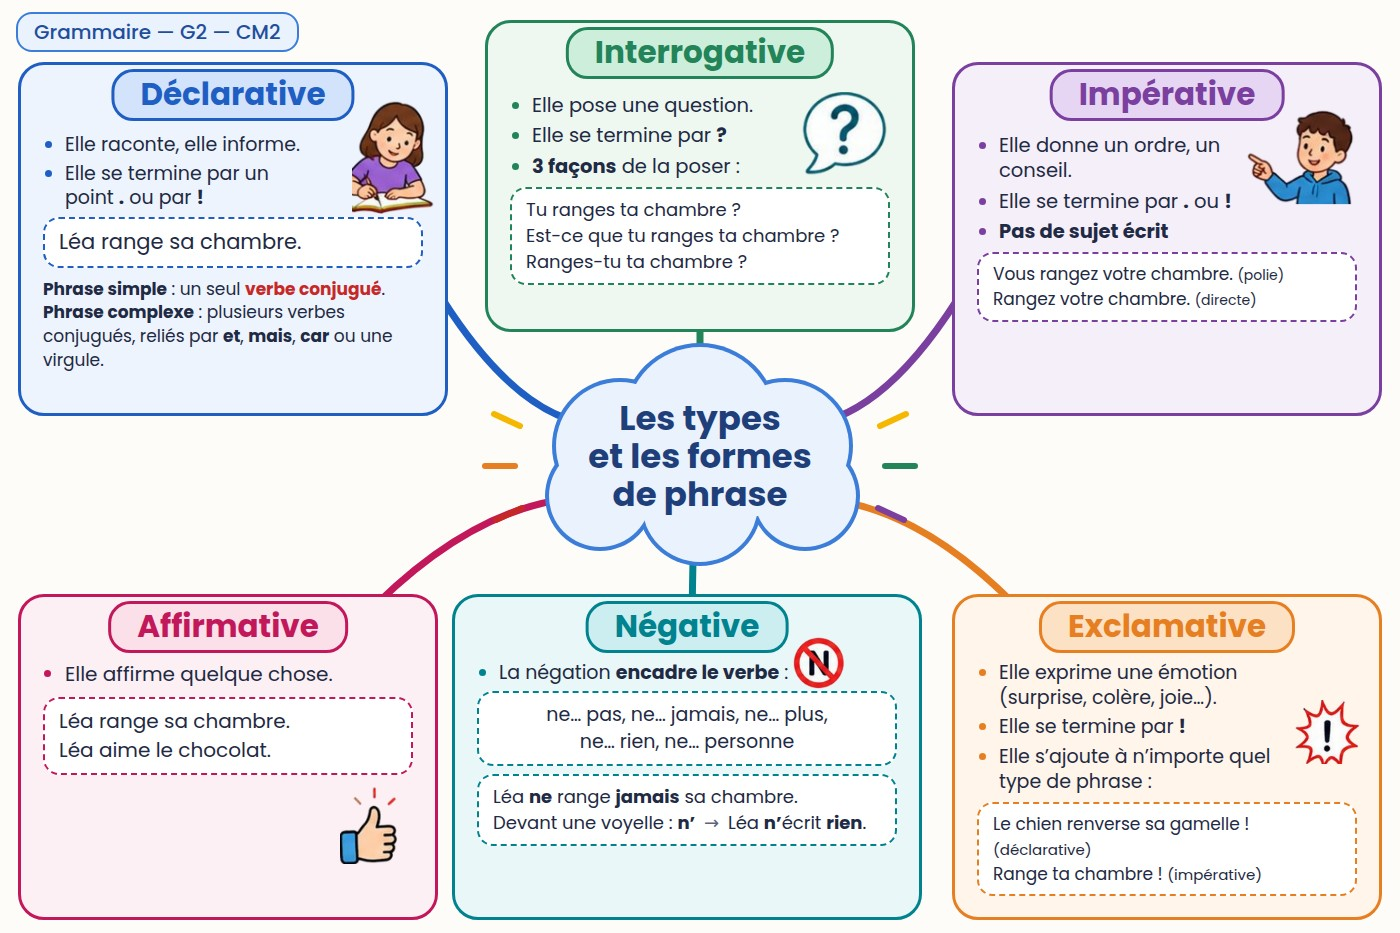
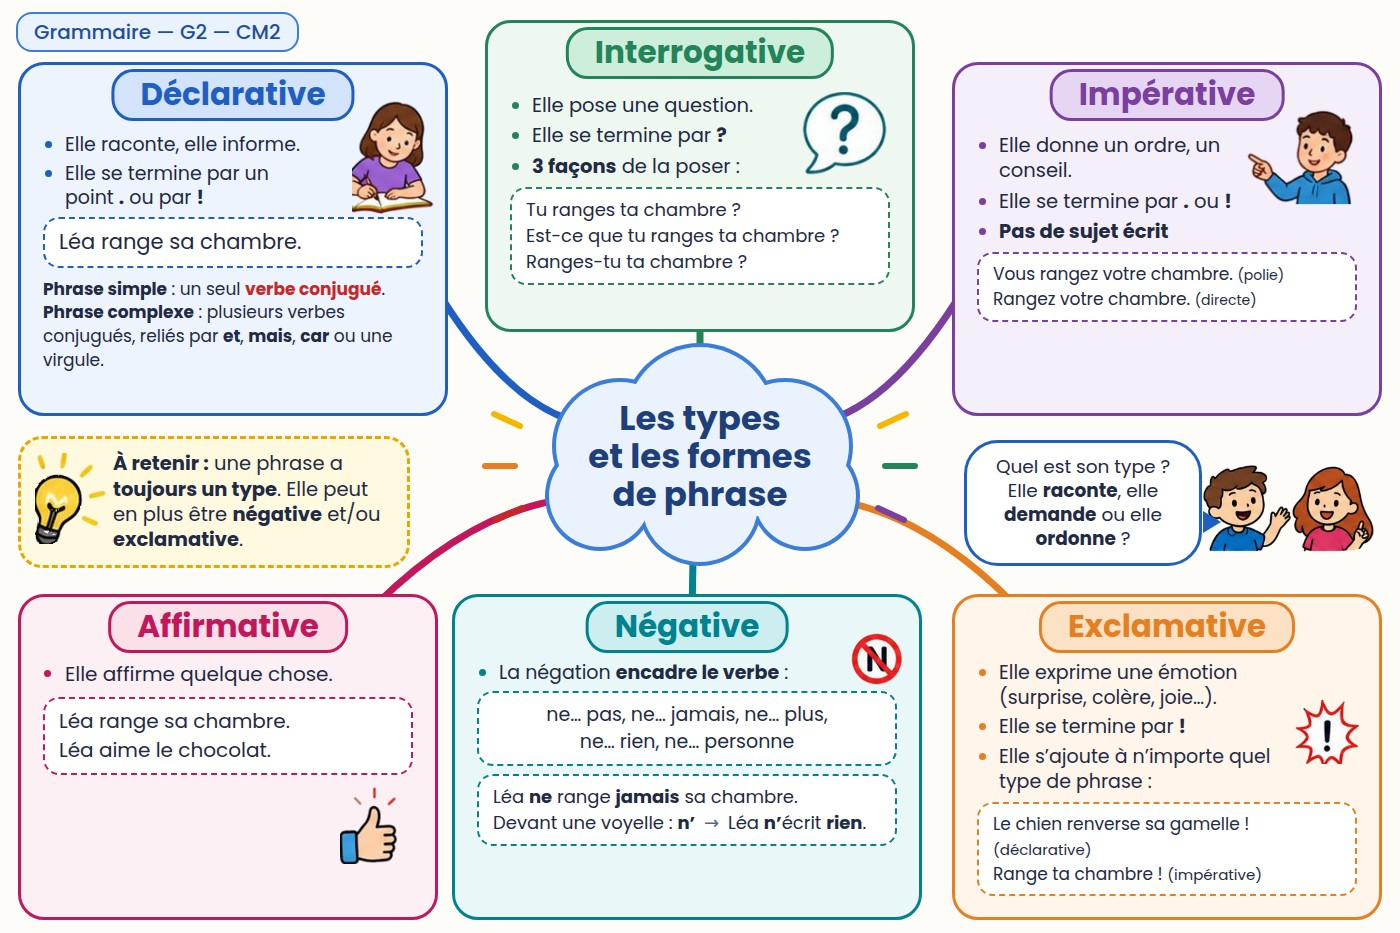
G2 : éléments de G1 repris (note « À retenir » avec ampoule, duo d'enfants qui parle dans une bulle) pour remplir les vides

Changed region(s): [[0.0, 0.4662, 0.3071, 0.6217], [0.6757, 0.4662, 0.9829, 0.6217], [0.5529, 0.6838, 0.645, 0.746]]

diff --git a/outils/lecons/g2_cartes.py b/outils/lecons/g2_cartes.py
@@ -47,12 +47,19 @@ def carte(lid, chip, niveau):
      dict(id='inter', col='vert', geom=TC, ext=24, title=inter_t, hstyle='top:30px', html=inter, figs=[('q', 800, 92, 90)]),
      dict(id='imp', col='violet', geom=TR, ext=24, title='Impérative', hstyle='top:30px', figs=[('boy', 1244, 106, 112)], html=imp),
      dict(id='aff', ext=24, col='rose', geom=AFF, title='Affirmative', hstyle='top:30px', html=aff, figs=[('thumb', 340, 785, 62)], style='padding-top:50px'),
-     dict(id='neg', ext=24, col='turquoise', geom=NEG, title='Négative', hstyle='top:30px', html=neg, figs=[('no', 792, 636, 54)], style='padding-top:50px'),
+     dict(id='neg', ext=24, col='turquoise', geom=NEG, title='Négative', hstyle='top:30px', html=neg, figs=[('no', 850, 632, 54)], style='padding-top:50px'),
      dict(id='excl', ext=24, col='orange', geom=EXC, title='Exclamative', hstyle='top:30px', html=exc, figs=[('burst', 1290, 700, 74)], style='padding-top:50px'),
     ]
     legend = ''
     titre = 'Les types<br>et les formes<br>de phrase'
-    return build(lid, titre, chip, legend, boxes, sub='', title_size=34, legend_pos='right:26px;top:540px', cloud_dy=26)
+    bulle = lambda x, y, w, h, txt, tail: f'<div style="position:absolute;left:{x}px;top:{y}px;width:{w}px;height:{h}px;background:#fff;border:3.5px solid #1f5fc4;border-radius:34px;display:flex;align-items:center;justify-content:center;text-align:center;padding:10px 18px;font-size:18.5px;line-height:1.3;color:#1f2a44"><span>{txt}</span><i style="position:absolute;{tail}"></i></div>'
+    note = ('<div style="position:absolute;left:18px;top:436px;width:392px;height:132px;background:#fff9e0;border:3.5px dashed #e6a700;border-radius:24px;display:flex;align-items:center;gap:12px;padding:6px 12px 6px 92px;font-size:19.5px;line-height:1.3;color:#1f2a44">'
+            '<img src="file://' + os.path.join(os.path.dirname(os.path.abspath(__file__)), '..', 'img', 'g2', 'ampoule.png') + '" style="position:absolute;left:14px;top:14px;width:72px">'
+            '<span><b>À retenir :</b> une phrase a <b>toujours un type</b>. Elle peut en plus être <b>négative</b> et/ou <b>exclamative</b>.</span></div>')
+    duo = ('<img src="file://' + os.path.join(os.path.dirname(os.path.abspath(__file__)), '..', 'img', 'g2', 'duo.png') + '" style="position:absolute;left:1200px;top:462px;width:180px">'
+           + bulle(964, 440, 238, 126, 'Quel est son type ?<br>Elle <b>raconte</b>, elle <b>demande</b> ou elle <b>ordonne</b> ?', 'right:-22px;bottom:30px;border:11px solid transparent;border-left:18px solid #1f5fc4;border-right:0'))
+    extra_html = note + duo
+    return build(lid, titre, chip, legend, boxes, extra_html=extra_html, sub='', title_size=34, legend_pos='right:26px;top:540px', cloud_dy=26)
 
 
 if __name__ == '__main__':

diff --git a/outils/mapgen.py b/outils/mapgen.py
@@ -49,7 +49,7 @@ def branch(b, dy=0):
 CHIP_NIVEAUX = {}
 
 
-def build(lid, titre, chip, legend, boxes, sub='', title_size=40, legend_pos='right:18px;top:12px', cloud_dy=0):   # cloud_dy : descend le nuage central (et ses rayons, son titre) de cloud_dy px
+def build(lid, titre, chip, legend, boxes, sub='', title_size=40, legend_pos='right:18px;top:12px', cloud_dy=0, extra_html=''):   # cloud_dy : descend le nuage central (et ses rayons, son titre) de cloud_dy px
     import re
     if lid in CHIP_NIVEAUX: chip = re.sub(r'—\s*CM1\s*$', '— ' + CHIP_NIVEAUX[lid], chip)
     nb=lambda t: re.sub(r'« ', '«&nbsp;', re.sub(r' ([?!:;»])', r'&nbsp;\1', t))
@@ -82,6 +82,7 @@ def build(lid, titre, chip, legend, boxes, sub='', title_size=40, legend_pos='ri
 <div class="chip">{chip}</div>
 <div class="title" style="font-size:{title_size}px;margin-top:{cloud_dy}px"><div>{titre}{f'<small>{sub}</small>' if sub else ''}</div></div>
 {''.join(parts)}
+{extra_html}
 {f'<div style="position:absolute;{legend_pos};font-size:17px;background:#fff;border:2px solid #d8dde8;border-radius:14px;padding:2px 12px">{legend}</div>' if legend else ''}
 </body></html>'''
     hp = os.path.join(SORTIE, f'{lid}map.html')

diff --git a/CLAUDE.md b/CLAUDE.md
@@ -51,7 +51,7 @@ Site des leçons interactives (ceintures de français CM1) publié avec GitHub P
   une ceinture absente de la classe demandée ouvre la leçon d'une autre classe qui l'a (21/10/2026).
 - Sommaire par classe : boutons CE2 / CM1 / CM2 (adresse `#niveau=CE2`…). Une leçon sans champ `niveau`
   est rangée en CM1 ; pour une leçon d'une autre classe, ajouter `niveau:'CE2'` ou `niveau:'CM2'` dans `TRACES`.
-- Cartes de G2 (13/11/2026) : les trois (`G2`, `G2-CE2`, `G2-CM2`) sont fabriquées par `outils/lecons/g2_cartes.py` (même apparence ; dessins des enfants et pictos = images découpées de la carte CM1 d’origine, `outils/img/g2/*.png`, jamais redessinés). `python3 outils/lecons/g2_cartes.py`, puis copier `outils/sortie/G2*_carte.jpeg` dans `images/`. Nuage central descendu (`cloud_dy=26`), numéros des zones à l’intérieur du cadre (CSS `.zone .num`, en haut à gauche). Cadres pleins = zones cliquables : option `ext` de `build` (mapgen.py : le haut du cadre monte de `ext` px, le titre est posé à l’intérieur, `hstyle=top:30px`), zones de G2 = cadres exacts.
+- Cartes de G2 (13/11/2026) : les trois (`G2`, `G2-CE2`, `G2-CM2`) sont fabriquées par `outils/lecons/g2_cartes.py` (même apparence ; dessins des enfants et pictos = images découpées de la carte CM1 d’origine, `outils/img/g2/*.png`, jamais redessinés). `python3 outils/lecons/g2_cartes.py`, puis copier `outils/sortie/G2*_carte.jpeg` dans `images/`. Éléments repris de G1 (note « À retenir » avec l’ampoule, duo d’enfants qui parle dans une bulle : images `outils/img/g2/ampoule.png`, `duo.png` découpées de G1, `extra_html` de `build`) ; nuage central descendu (`cloud_dy=26`), numéros des zones à l’intérieur du cadre (CSS `.zone .num`, en haut à gauche). Cadres pleins = zones cliquables : option `ext` de `build` (mapgen.py : le haut du cadre monte de `ext` px, le titre est posé à l’intérieur, `hstyle=top:30px`), zones de G2 = cadres exacts.
 - CM2 : mêmes numéros, mêmes couleurs, mêmes notions qu'en CM1 (choix de l'enseignante, octobre 2026).
   Une leçon CM2 (id `XX-CM2`, code affiché `XX`) = la leçon CM1 + les écrans de `CM2_PLUS` (étiquette « CM2 »,
   placés après le dernier écran de leur section) + un encadré « En CM2, j'apprends aussi » sous la carte.
